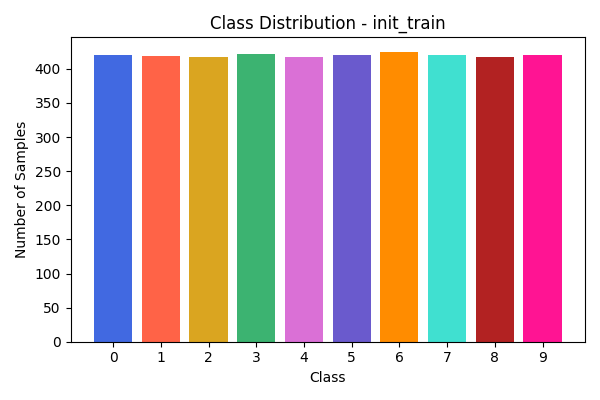
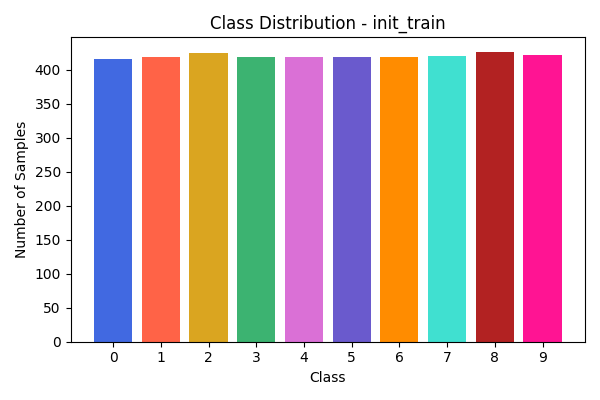
test

diff --git a/main.py b/main.py
@@ -59,27 +59,20 @@ def init_active_learning_pool(train_loader, val_loader, test_loader, seed):
     x_val, y_val     = extract_data(val_loader)
     x_test, y_test   = extract_data(test_loader)
     
-    # se extract_data já retorna tensores, faça:
-    if isinstance(x_train, torch.Tensor):
-        x_train = x_train.cpu().numpy()
-        y_train = y_train.cpu().numpy()
-
-    torch.manual_seed(seed)
     # Embaralha o inicial
+    torch.manual_seed(seed)
     perm = torch.randperm(len(x_train))
     x_train, y_train = x_train[perm], y_train[perm]
 
     # Split inicial e pool
-    x_init, x_pool, y_init, y_pool = train_test_split(
-        x_train, y_train,
-        train_size=INIT_TRAINING_PERCENTAGE,
-        stratify=y_train,
-        random_state=seed
-    )
+    x_init, x_unlabeled, y_init, y_unlabeled = train_test_split(x_train, y_train, 
+                                                                train_size=INIT_TRAINING_PERCENTAGE,
+                                                                stratify=y_train,
+                                                                random_state=seed)
 
     # Visualiza distribuição inicial
     plot_distribution_2(Counter(y_init.tolist()), "init_train", CLASS_COLORS, plots_path)
-    plot_distribution_2(Counter(y_pool.tolist()), "pool_train", CLASS_COLORS, plots_path)
+    plot_distribution_2(Counter(y_unlabeled.tolist()), "unlabeled_train", CLASS_COLORS, plots_path)
 
     # --- inicializa modelo e learner ---
     model = LeNet5(device=device, dataset=DATASET_IN_USE).to(device)
@@ -100,32 +93,19 @@ def init_active_learning_pool(train_loader, val_loader, test_loader, seed):
         print(f"========================\nCycle {cycle + 1}/{NUM_CYCLES}")
 
         # Query por batch de instâncias
-        query_idx, query_instances = learner.query(x_pool, n_instances=POOL_SIZE)
+        query_idx, query_instances = learner.query(x_unlabeled, n_instances=POOL_SIZE)
 
         # Seleciona imagens e rótulos verdadeiros
-        X_new = x_pool[query_idx]
-        y_new = y_pool[query_idx]
+        x_query = x_unlabeled[query_idx]
+        y_query = y_unlabeled[query_idx]
 
-        # converte X_new e y_new para NumPy (e garante CPU)
-        if isinstance(X_new, torch.Tensor):
-            X_new = X_new.cpu().numpy()
-        if isinstance(y_new, np.ndarray):
-            y_targets = y_new  # já é NumPy
-        else:
-            # se você gerou y_targets como tensor, então:
-            y_targets = y_targets.cpu().numpy()
-
-        learner.teach(
-            X=X_new,
-            y=y_targets,
-            only_new=False
-        )
+        learner.teach(X=x_query, y=y_query)
         
         print(f"learner DL size: {len(learner.y_training)}")
         
         # Remove do pool as instâncias já rotuladas
-        x_pool = np.delete(x_pool, query_idx, axis=0)
-        y_pool = np.delete(y_pool, query_idx, axis=0)
+        x_unlabeled = np.delete(x_unlabeled, query_idx, axis=0)
+        y_unlabeled = np.delete(y_unlabeled, query_idx, axis=0)
 
         # Avalia no validation ou test
         if cycle + 1 == NUM_CYCLES:

diff --git a/env.py b/env.py
@@ -21,7 +21,7 @@ LEARNING_RATE = 0.002
 EPHOCS = 10
 BATCH_SIZE = 512
 
-NUM_CYCLES = 300
+NUM_CYCLES = 128
 NUM_ANNOTATORS = 30
 POOL_SIZE = 128
 CLASSES = [0, 1, 2, 3, 4, 5, 6, 7, 8, 9]
